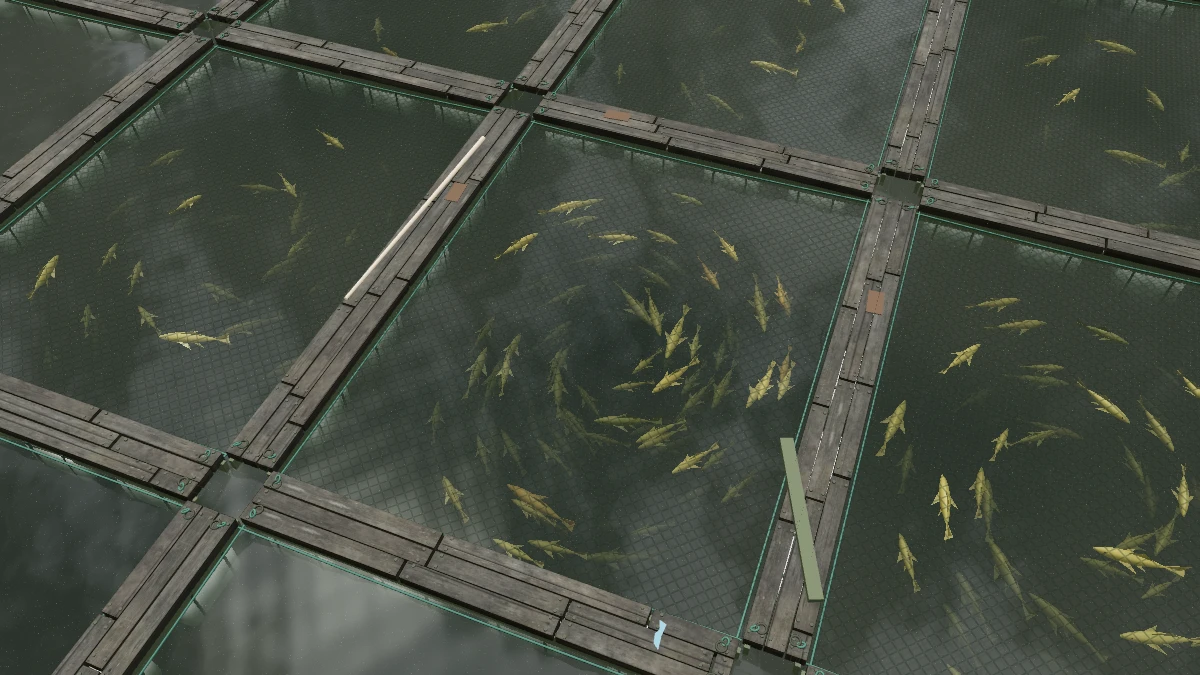
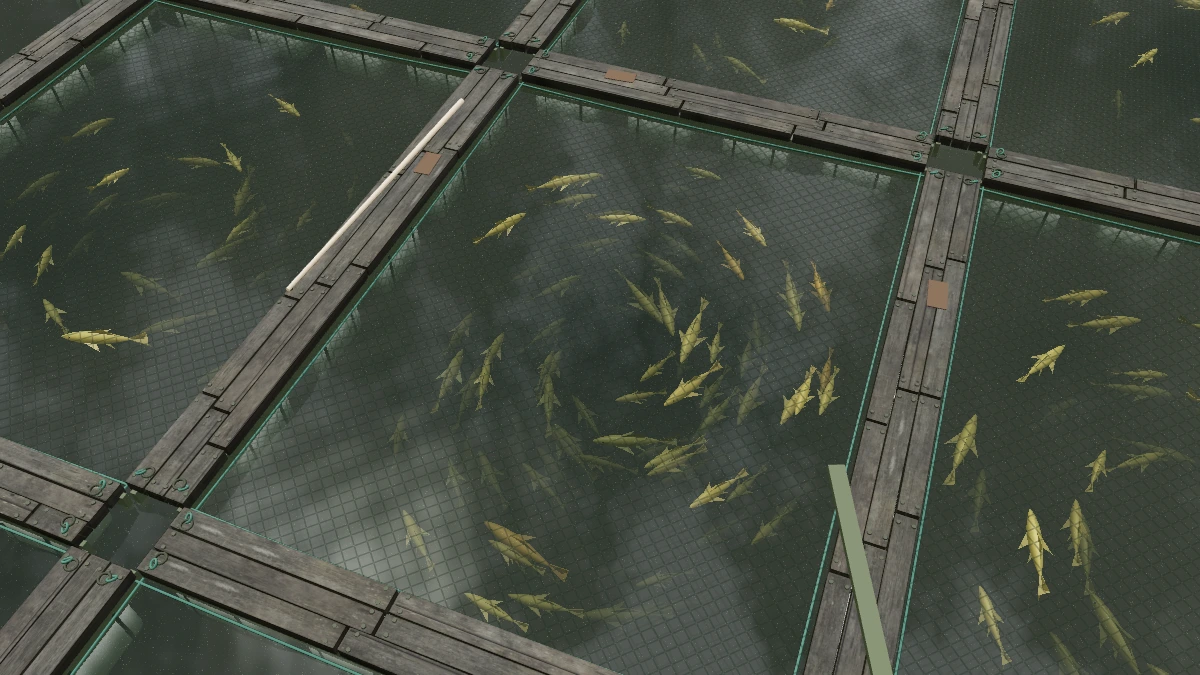
Open Salmon Farm with a closer view of the pens

diff --git a/src/tanks/scene.ts b/src/tanks/scene.ts
@@ -98,7 +98,7 @@ export class TanksScene {
     this.water = createWater(this.refraction.texture, this.refraction.depthTexture, this.reflection.texture, this.environment)
     this.scene.add(this.water.mesh, this.underwater)
     this.underwater.add(this.fish.mesh)
-    this.camera.position.set(2.54, 8.37, 6.96)
+    this.camera.position.set(2.06, 6.82, 5.71)
     this.controls = new OrbitControls(this.camera, this.renderer.domElement)
     this.controls.mouseButtons.RIGHT = MOUSE.DOLLY
     this.controls.target.set(-0.15, -0.25, 0)
